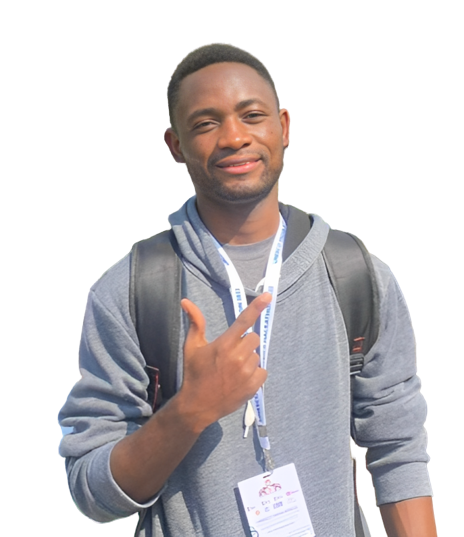
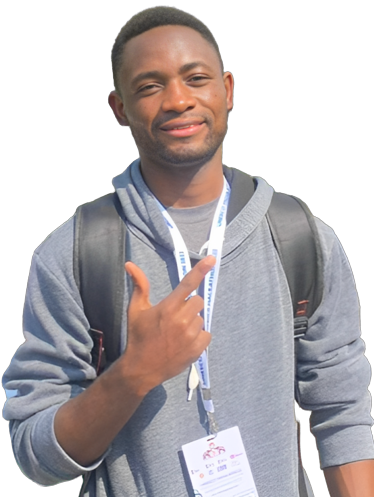
Add intro page

diff --git a/src/segments/Intro.module.css b/src/segments/Intro.module.css
@@ -1,33 +1,77 @@
 .intro {
-  background-image: linear-gradient(90deg, rgb(0, 0, 0, 1), rgb(0, 0, 0, 0.85)), url("../images/t5.jpg");
-  background-size: cover;
-  background-position: 0;
-  background-attachment: fixed;
-  height: 100vh;
-  font-family: Arial, Helvetica, sans-serif;
-  color: white;
-  margin-top: 0;
-  display: flow-root;
+  height: 80vh;
+  width: 90%;
+  margin: auto;
+  /* display: flow-root; */
+  display: flex;
+  align-items: center;
+  justify-content: space-between;
+  font-size: 1.5rem;
+  /* background-color: red; */
 }
 
-.intro1 {
-  font-weight: 100;
-  font-size: 3rem;
-  margin: 10% 15% 0;
+.introLeft {
+  width: 40%;
 }
 
 .intro2 {
-  font-weight: 100;
-  font-size: 6rem;
-  margin: 4rem auto;
-  width: 50%;
-  color: #ffe759;
+  font-size: 2em;
 }
 
-.intro3 {
-  font-weight: 100;
+.introName {
+  font-weight: 500;
+  color: #069dff;
+}
+
+.introButton {
+  width: 25%;
+  height: 40px;
+  margin-top: 20px;
+  border-radius: 5px;
+  background-color: inherit;
+  border: #069dff 1px solid;
+  color: #069dff;
+}
+
+.introButton1 {
+  background-color: #069dff;
+  color: #fafafa;
+  margin-right: 15px;
+}
+
+.introRight {
+  background-image: linear-gradient(#069dff, #fafafa);
+  height: 80%;
+  border-radius: 50% 50% 0 0;
+  display: flex;
+  justify-content: center;
+  align-items: center;
+  margin: 10%;
+  /* align-self: flex-start; */
+}
+
+.introRight > img {
+  height: 70vh;
+}
+
+.introDown {
   font-size: 2rem;
-  margin-left: 50rem;
+  font-weight: 600;
+  background-color: #e2f1fb;
+  height: 10vh;
+}
+
+.introDown1 {
+  width: 90%;
+  height: inherit;
+  margin: auto;
+  display: flex;
+  justify-content: space-between;
+  align-items: center;
+}
+
+.introDown2 {
+  color: #069dff;
 }
 
 /* @media only screen and (max-width: 480px) {

diff --git a/src/segments/Intro.js b/src/segments/Intro.js
@@ -1,14 +1,43 @@
 import React from "react";
 import styles from "./Intro.module.css"
-import im from "../images/t4.png"
+import im from "../images/t1.png"
 
 const Intro = () => {
   return(
-    <div className={styles.intro}>
-      <h2 className={styles.intro1}>Hello there, I am... </h2>
-      <h1 className={styles.intro2}>Elisha Tetteyfio</h1>
-      <h3 className={styles.intro3}>...a full-stack developer</h3>
-      {/* <img src={im} alt="fsd"/> */}
+    <div>
+      <div className={styles.intro}>
+        <div className={styles.introLeft}>
+          <div className={styles.intro1}>Hello there,</div>
+          <div className={styles.intro2}>I am <span className={styles.introName}>Elisha Tetteyfio</span></div>
+          <div className={styles.intro3}>I am a full-stack developer and a mathematician too. Feel free to contact me about Programming or Maths.</div>
+          <div>
+            <button className={`${styles.introButton} ${styles.introButton1}`}>Hire me</button>
+            <button className={styles.introButton}>Let's talk</button>
+          </div>
+        </div>
+        <div className={styles.introRight}>
+          <img src={im} alt="My image"/>
+        </div>
+      </div>
+      <div className={styles.introDown}>
+        <div className={styles.introDown1}>
+          <div>
+            Hello &#x2727;
+          </div>
+          <div className={styles.introDown2}>
+            &#x2727;
+          </div>
+          <div>
+            Hello &#x2727;
+          </div>
+          <div className={styles.introDown2}>
+            &#x2727;
+          </div>
+          <div>
+            Hello &#x2727;
+          </div>
+        </div>
+      </div>
     </div>
   )
 }

diff --git a/src/components/Header.js b/src/components/Header.js
@@ -4,13 +4,15 @@ import styles from "./Header.module.css"
 const Header = () => {
   return(
     <div className={styles.header}>
-      <div className={styles.header1}>Elisha</div>
-      <div className={styles.header2}>
-        <div className={styles.headerLink}>Home</div>
-        <div className={styles.headerLink}>About</div>
-        <div className={styles.headerLink}>Projects</div>
-        <div className={styles.headerLink}>Testimonials</div>
-        <div className={styles.headerLink}>Contact me</div>
+      <div className={styles.headerr}>
+        <div className={styles.header1}>Elisha</div>
+        <div className={styles.header2}>
+          <div className={styles.headerLink}>Home</div>
+          <div className={styles.headerLink}>About</div>
+          <div className={styles.headerLink}>Projects</div>
+          <div className={styles.headerLink}>Testimonials</div>
+          <div className={styles.headerLink}>Contact me</div>
+        </div>
       </div>
     </div>
   )

diff --git a/src/components/Header.module.css b/src/components/Header.module.css
@@ -1,10 +1,13 @@
 .header {
+  height: 10vh;
+}
+
+.headerr {
+  width: 90%;
+  margin: auto;
   display: flex;
   justify-content: space-between;
-  background-color: #fafafa;
-  color: #1c1919;
-  height: 10vh;
-  padding: 10px 50px;
+  padding: 10px 0;
 }
 
 .header1 {

diff --git a/src/index.css b/src/index.css
@@ -5,6 +5,8 @@ body {
     sans-serif;
   -webkit-font-smoothing: antialiased;
   -moz-osx-font-smoothing: grayscale;
+  background-color: #fafafa;
+  color: #1c1919;
 }
 
 code {
